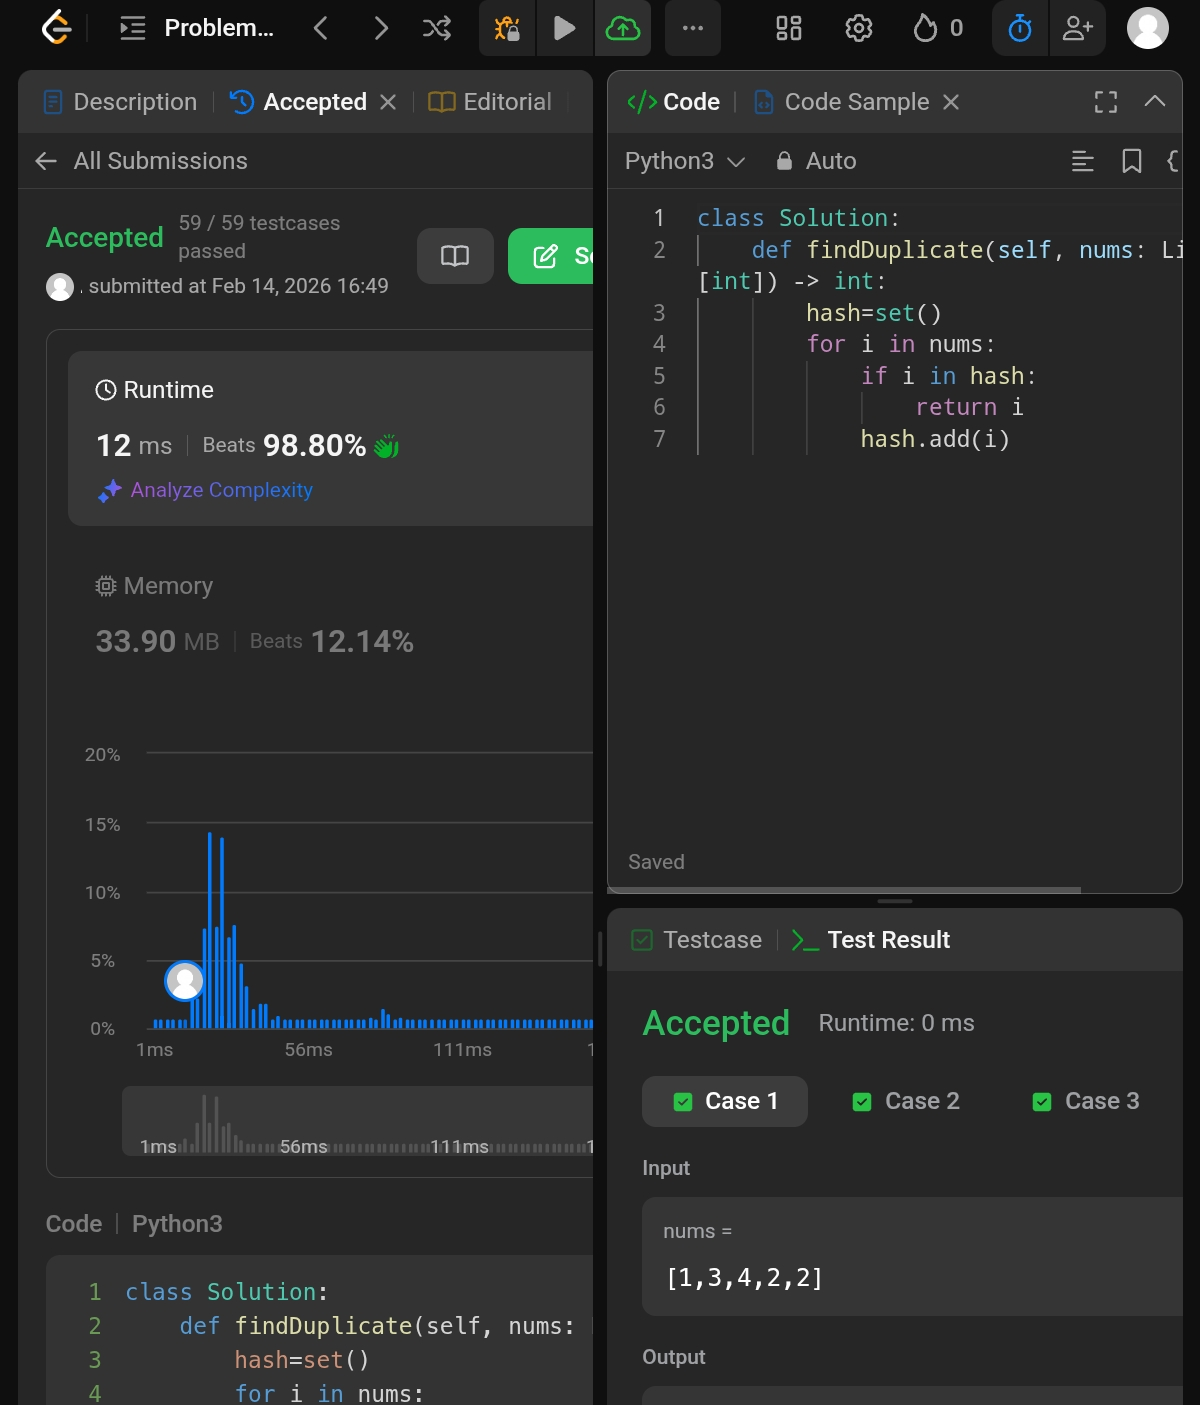
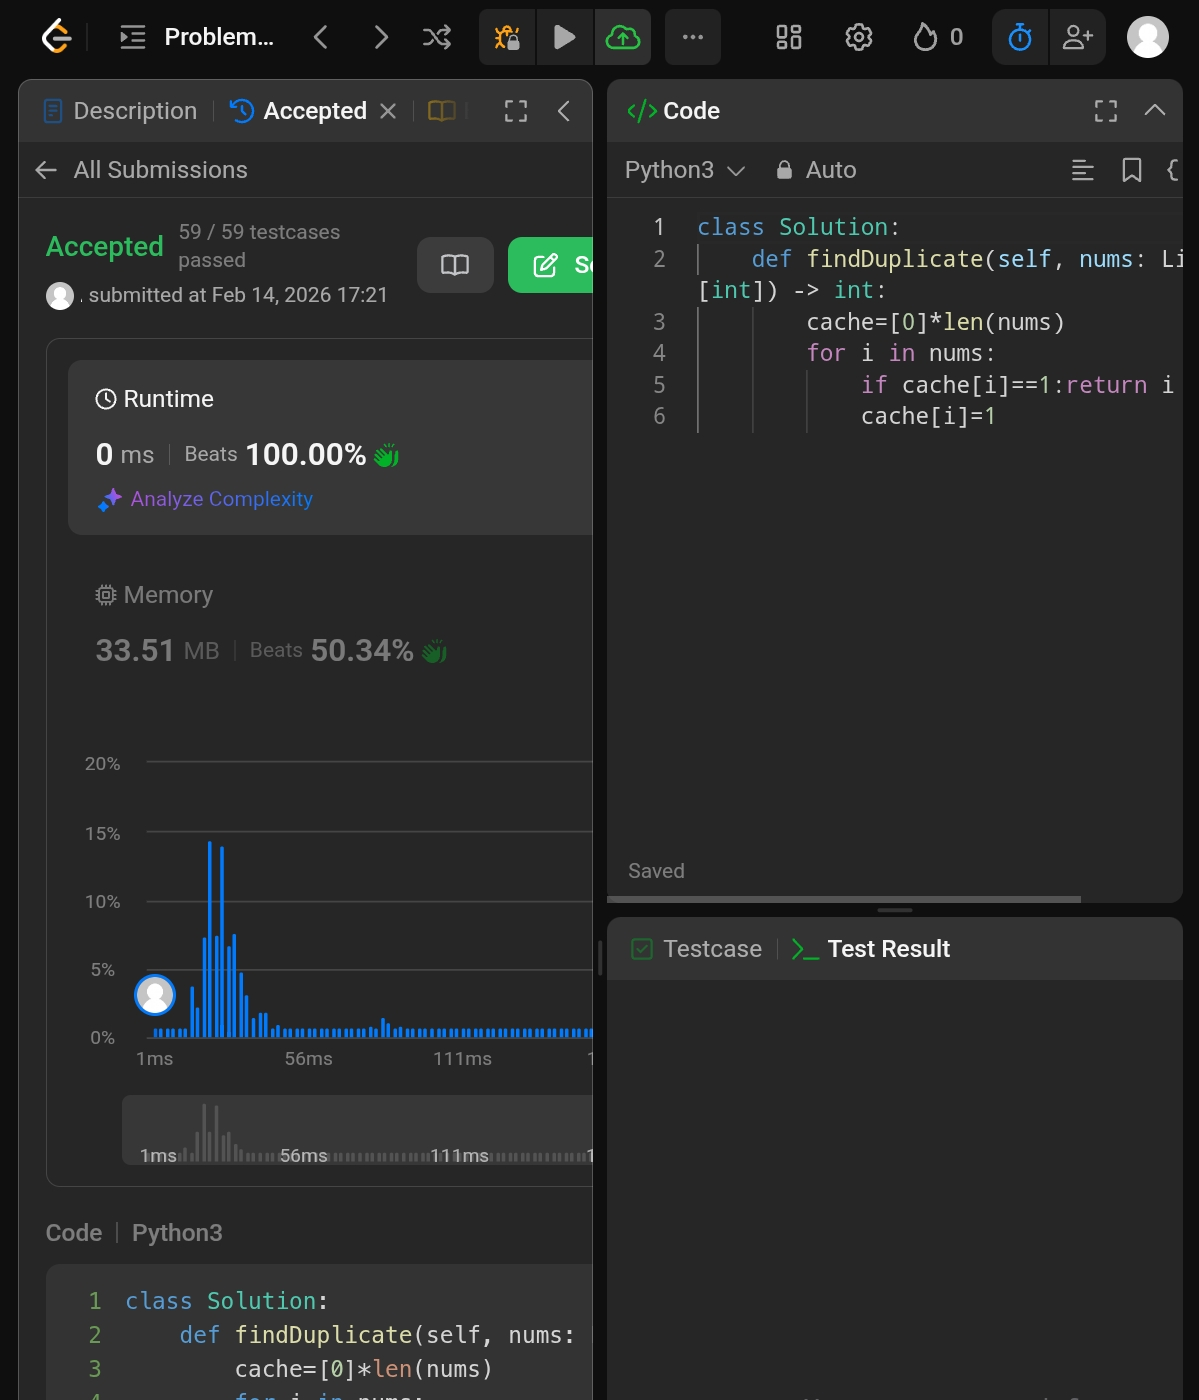
Solved and added submission results for 0287 Find Duplicate Number using array cache

diff --git a/Array_and_Hashmap/Basic_Challenges/0287_Find_The_Duplicate_Number/Array_Cache.py b/Array_and_Hashmap/Basic_Challenges/0287_Find_The_Duplicate_Number/Array_Cache.py
@@ -1,0 +1,6 @@
+class Solution:
+    def findDuplicate(self, nums: List[int]) -> int:
+        cache=[0]*len(nums)
+        for i in nums:
+            if cache[i]==1:return i
+            cache[i]=1
